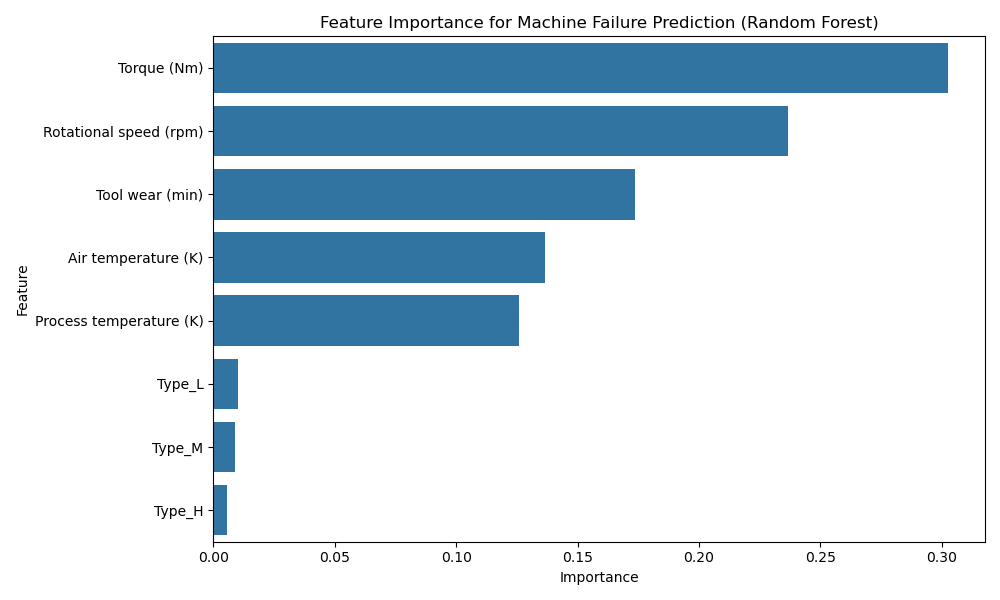
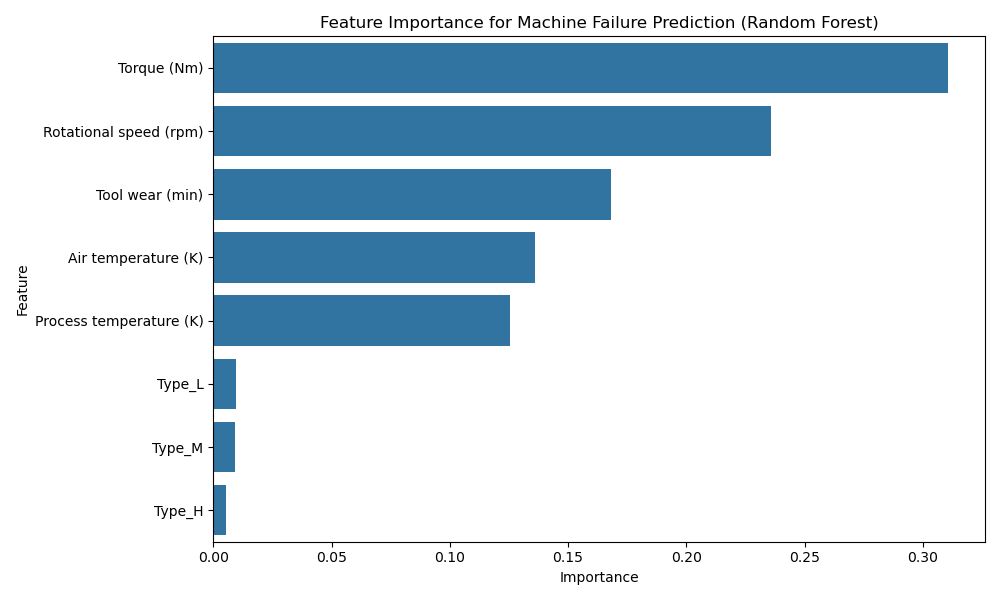
Added cross-val optimization for RF

diff --git a/rf_model.py b/rf_model.py
@@ -1,12 +1,11 @@
 import pandas as pd
-from sklearn.model_selection import train_test_split
+from sklearn.model_selection import train_test_split, RandomizedSearchCV
 from sklearn.ensemble import RandomForestClassifier
-import xgboost as xgb
 from sklearn.metrics import accuracy_score, classification_report, confusion_matrix
 import matplotlib.pyplot as plt
 import seaborn as sns
-from sklearn import tree
 import os
+from scipy.stats import randint
 
 # Create a directory to store diagrams if it doesn't exist
 diagrams_dir = 'diagrams'
@@ -30,11 +29,38 @@ y_failure = df['Machine failure']  # Target variable for predicting machine fail
 X_train, X_test, y_train, y_test = train_test_split(X, y_failure, test_size=0.2, random_state=42)
 
 # Random Forest Classifier for predicting machine failure
-rf_failure_classifier = RandomForestClassifier(n_estimators=100, random_state=42)
-rf_failure_classifier.fit(X_train, y_train)
+rf_failure_classifier = RandomForestClassifier(random_state=42)
+
+# Define the parameter distribution for randomized search
+param_dist = {
+    'n_estimators': randint(50, 200),
+    'max_depth': [None] + list(range(5, 20)),
+    'min_samples_split': randint(2, 10),
+    'min_samples_leaf': randint(1, 5)
+}
+
+# Perform randomized search with cross-validation
+randomized_search = RandomizedSearchCV(
+    estimator=rf_failure_classifier,
+    param_distributions=param_dist,
+    n_iter=50,  # Number of parameter settings to sample
+    cv=5,  # Number of cross-validation folds
+    scoring='accuracy',
+    n_jobs=-1,  # Use all available CPU cores
+    random_state=42
+)
+
+# Fit the randomized search object to the training data
+randomized_search.fit(X_train, y_train)
+
+# Get the best model and its parameters
+best_model = randomized_search.best_estimator_
+best_params = randomized_search.best_params_
+
+print("Best Parameters:", best_params)
 
 # Predictions on the test set
-rf_failure_predictions = rf_failure_classifier.predict(X_test)
+rf_failure_predictions = best_model.predict(X_test)
 
 # Accuracy for Machine Failure Classifier
 print("Accuracy for Machine Failure Classifier:", accuracy_score(y_test, rf_failure_predictions))
@@ -58,7 +84,7 @@ plt.tight_layout()
 plt.savefig(os.path.join(diagrams_dir, f'machine_failure_confusion_matrix.png'))
 
 # Feature Importance Analysis
-feature_importance = rf_failure_classifier.feature_importances_
+feature_importance = randomized_search.best_estimator_.feature_importances_
 
 # Create a DataFrame to display feature importance
 feature_importance_df = pd.DataFrame({'Feature': X.columns, 'Importance': feature_importance})
@@ -79,16 +105,44 @@ plt.savefig(os.path.join(diagrams_dir, f'machine_failure_feature_importance.png'
 X_train_failure = X_train[y_train == 1]
 y_train_failure = df.loc[X_train_failure.index][['TWF', 'HDF', 'PWF', 'OSF', 'RNF']]  # Target variable for failure types
 
+# Random Forest Classifier for predicting failure types
+rf_failure_type_classifier = RandomForestClassifier(random_state=42)
+
+# Define the parameter distribution for randomized search
+param_dist_failure = {
+    'n_estimators': randint(50, 200),
+    'max_depth': [None] + list(range(5, 20)),
+    'min_samples_split': randint(2, 10),
+    'min_samples_leaf': randint(1, 5)
+}
+
 # Train separate classifiers for each failure type
 failure_classifiers = {}
 for failure_type in ['TWF', 'HDF', 'PWF', 'OSF', 'RNF']:
     y = y_train_failure[failure_type]
-    rf_classifier = RandomForestClassifier(n_estimators=100, random_state=42)
-    rf_classifier.fit(X_train_failure, y)
-    failure_classifiers[failure_type] = rf_classifier
+
+    # Perform randomized search with cross-validation
+    randomized_search_failure = RandomizedSearchCV(
+        estimator=rf_failure_type_classifier,
+        param_distributions=param_dist_failure,
+        n_iter=50,  # Number of parameter settings to sample
+        cv=5,  # Number of cross-validation folds
+        scoring='accuracy',
+        n_jobs=-1,  # Use all available CPU cores
+        random_state=42
+    )
+
+    # Fit the randomized search object to the training data
+    randomized_search_failure.fit(X_train_failure, y)
+
+    # Get the best model and its parameters
+    best_model_failure = randomized_search_failure.best_estimator_
+    best_params_failure = randomized_search_failure.best_params_
+    print(f"Best Parameters for {failure_type}:", best_params_failure)
+    failure_classifiers[failure_type] = best_model_failure
 
     # Extract feature importance scores
-    feature_importance = rf_classifier.feature_importances_
+    feature_importance = best_model_failure.feature_importances_
 
     # Create a DataFrame to display feature importance
     feature_importance_df = pd.DataFrame({'Feature': X.columns, 'Importance': feature_importance})
